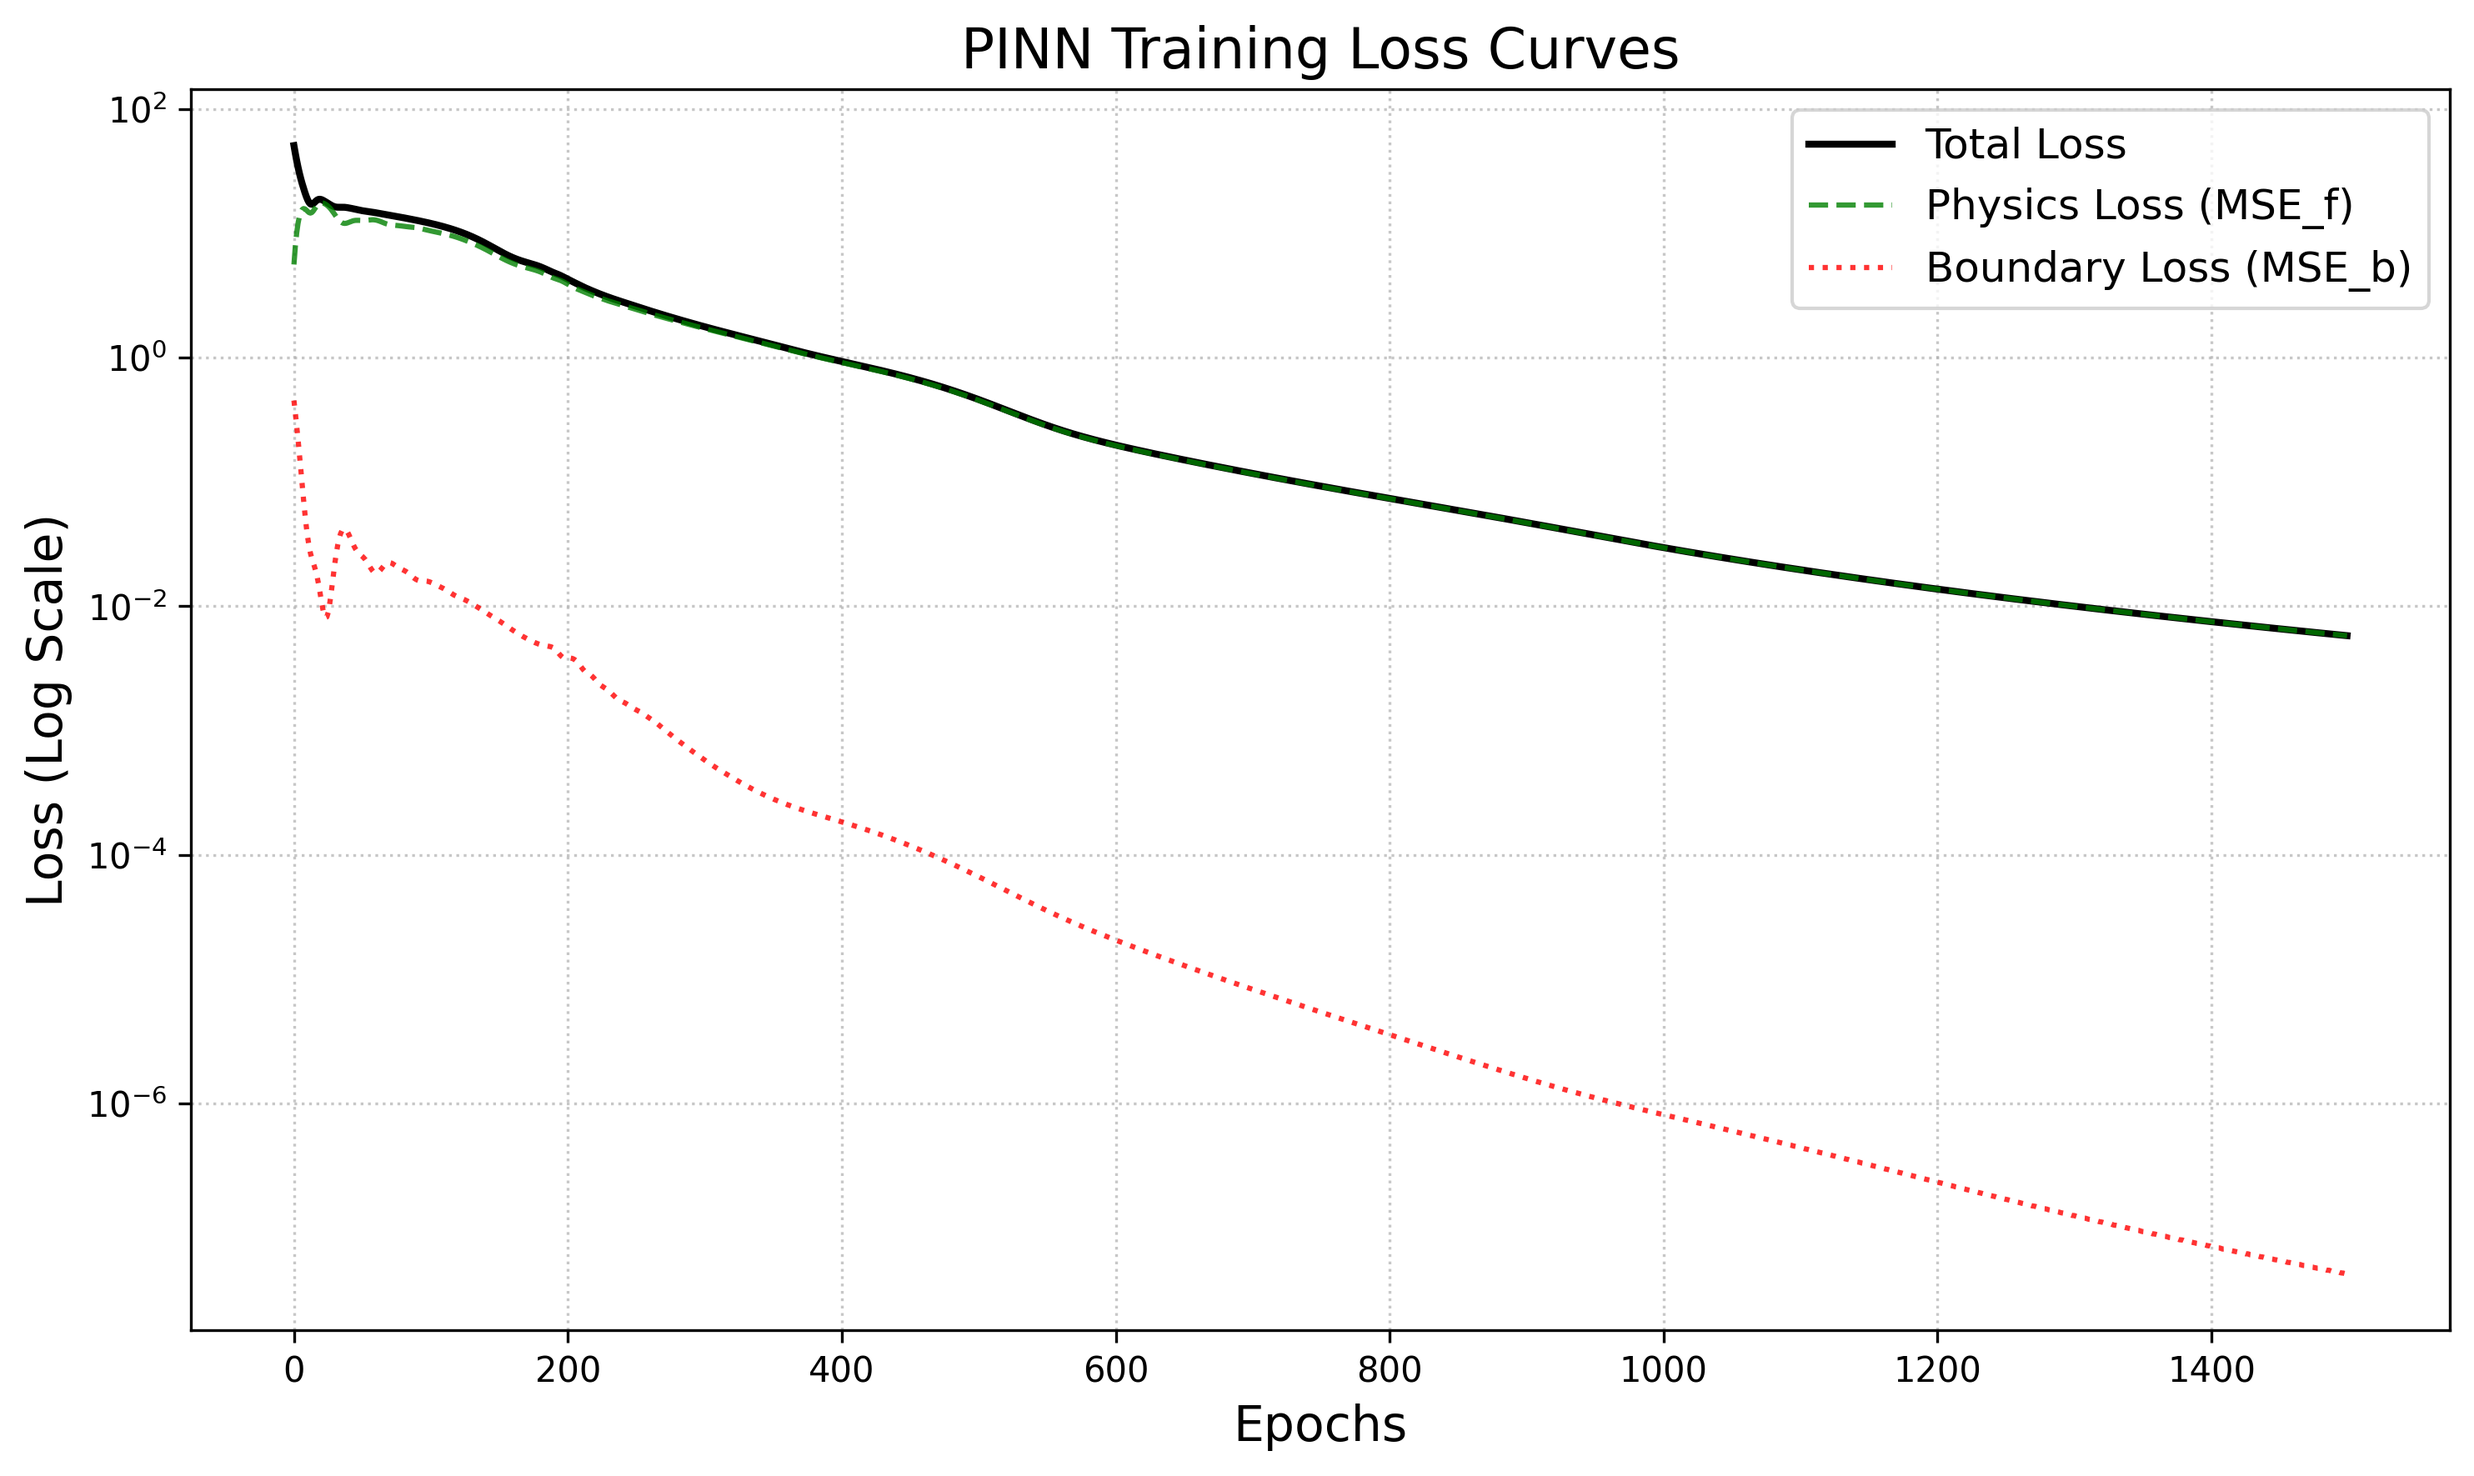
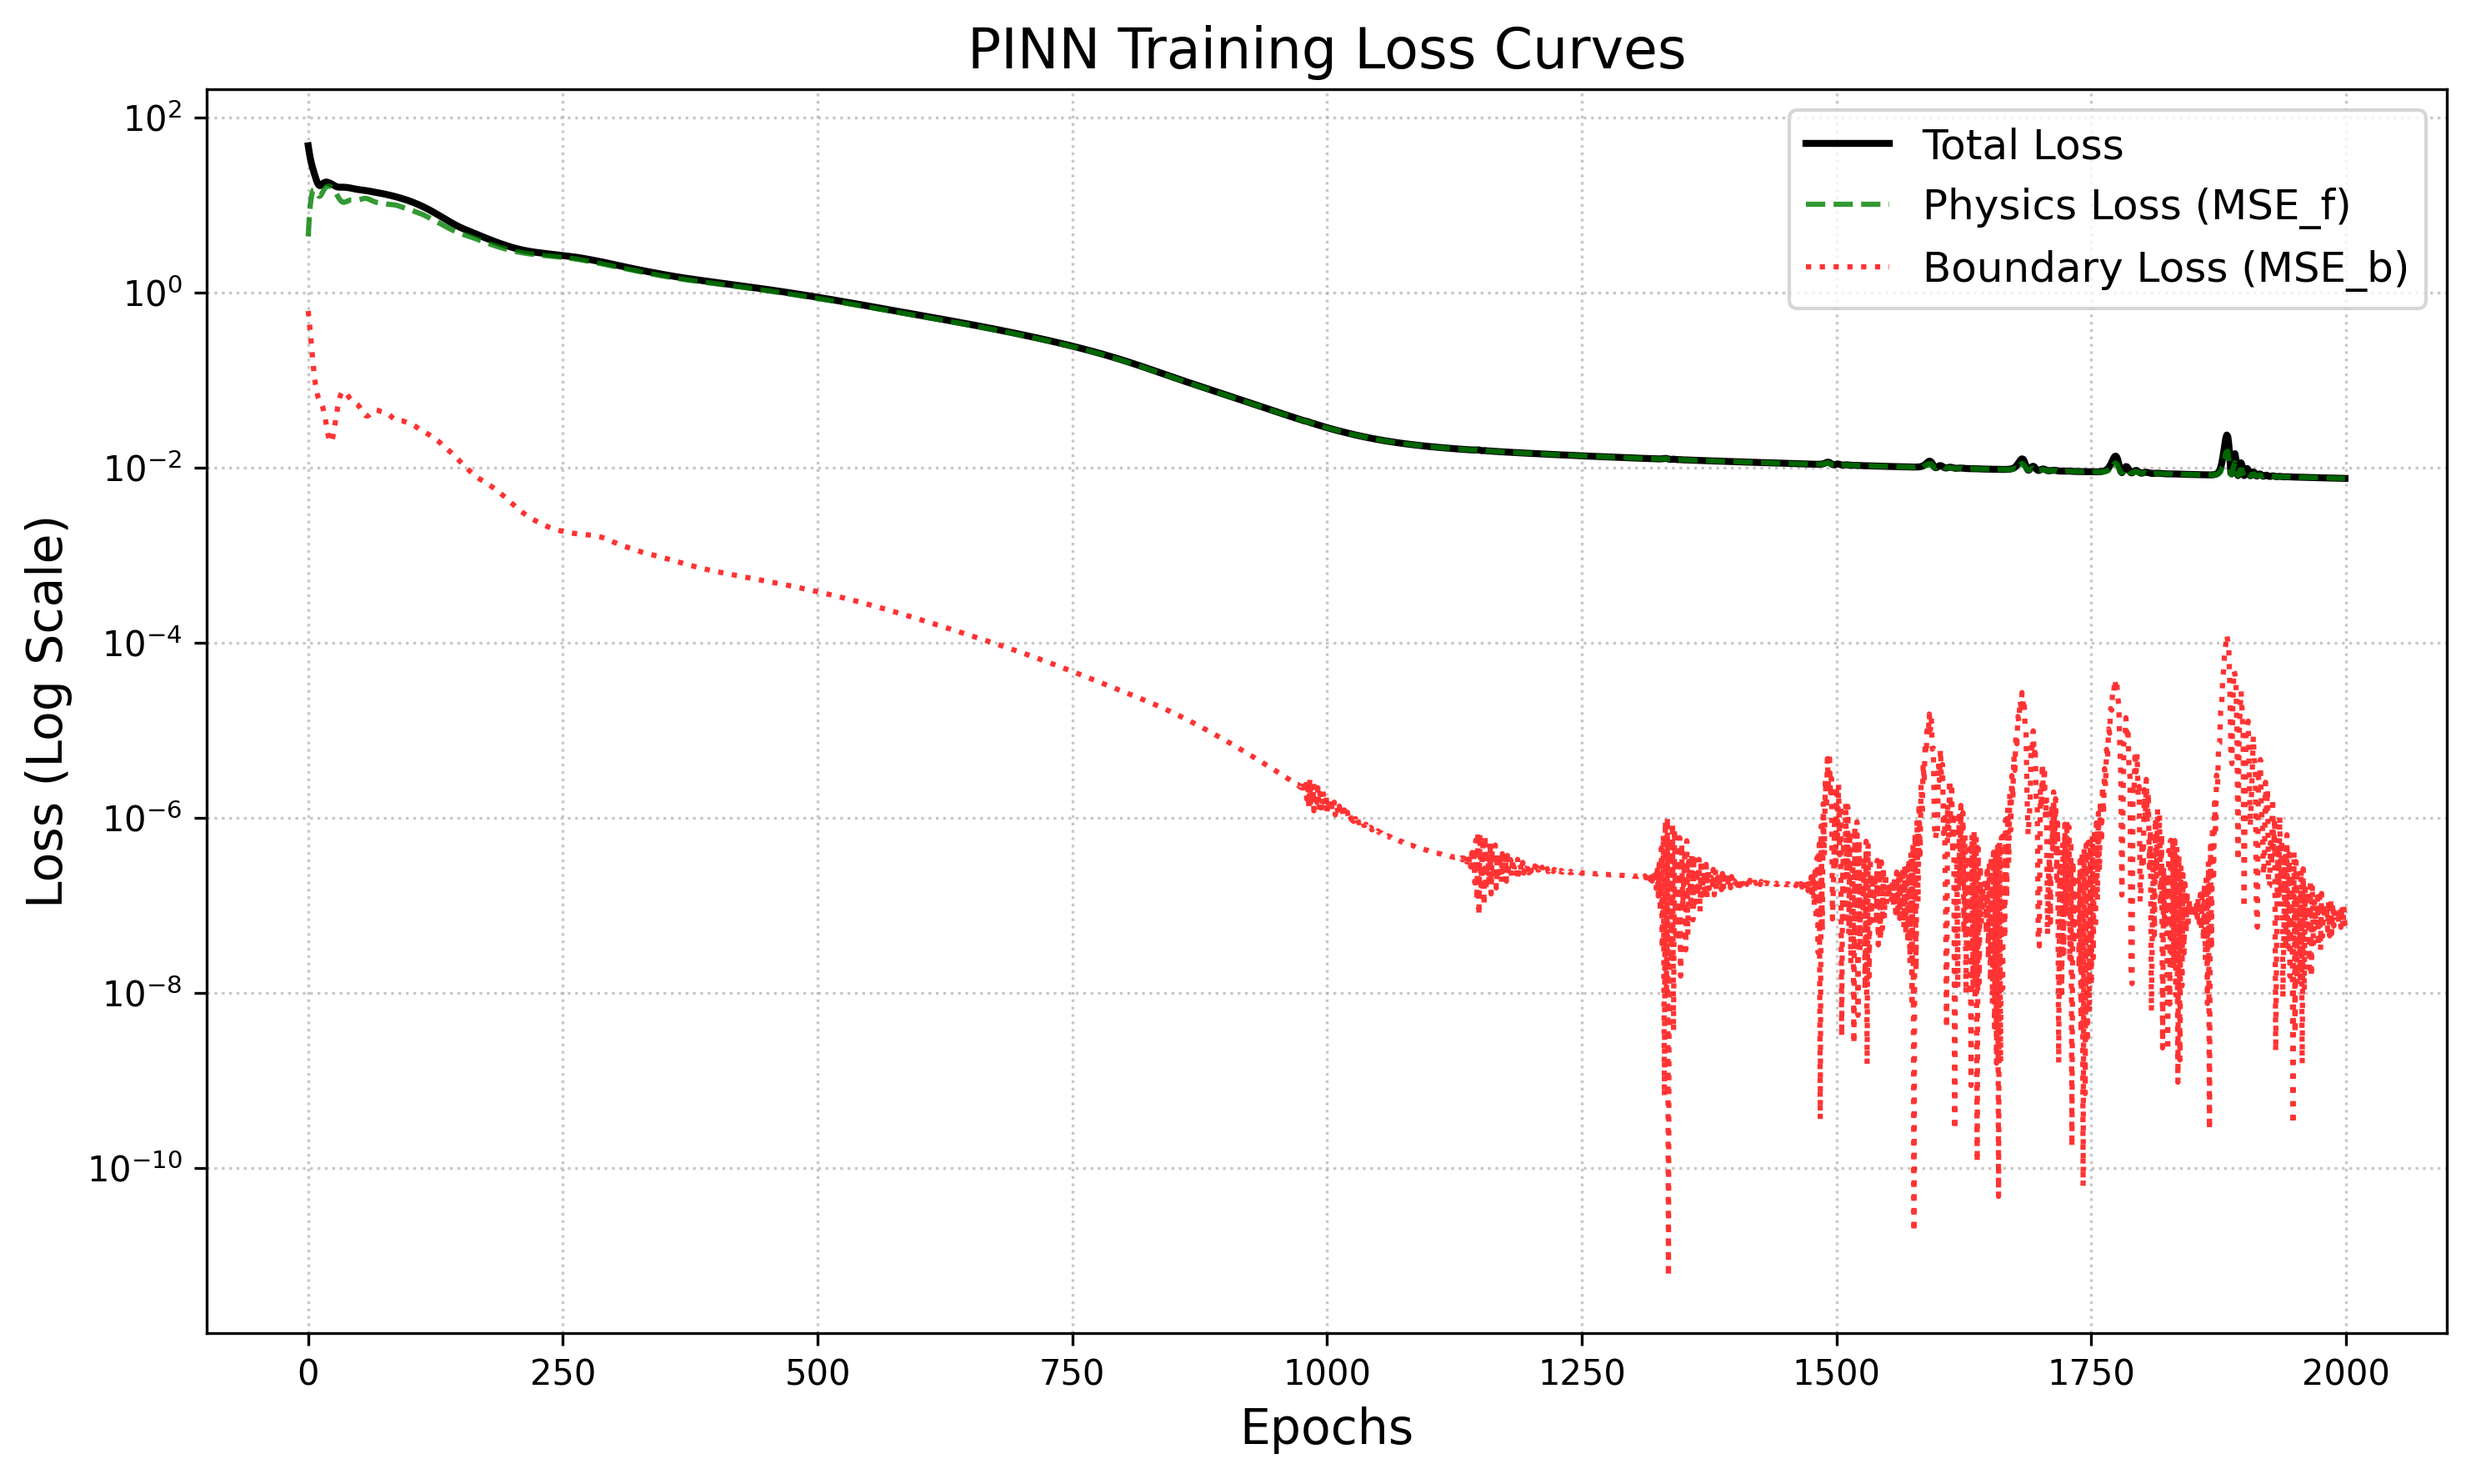
poisson tout propre

diff --git a/experiments/run_damped.py b/experiments/run_damped.py
@@ -18,12 +18,30 @@ from src.utils.training import train_pinn, train_bpinn
 # the 1D Damped Harmonic Oscillator problem without active forcing.
 # m u'' + c u' + k u = 0
 # =========================================================================
+def warm_start_bnn(pinn, bnn):
+    """Transfer weights from trained PINN to BNN, handling the 'net.' prefix mismatch."""
+    # Get the state dict from the PINN
+    pinn_state_dict = pinn.state_dict()
+    
+    # Create a new state dict with 'net.' removed from the keys
+    new_state_dict = {}
+    for key, value in pinn_state_dict.items():
+        # If the key starts with 'net.', strip it
+        new_key = key.replace('net.', '') 
+        new_state_dict[new_key] = value
+        
+    # Load the cleaned state dict into the BNN
+    bnn.load_state_dict(new_state_dict)
+    print("BNN successfully initialized with 'net.'-stripped PINN weights.")
+
 
 def run_damped_oscillator():
     # 1. Setup PDE and Physics Parameters
     m = 1.0
     k = 10.0
     c = 0.5
+    sigma_u = 0.00001
+    sigma_f = 0.001
     
     # 2. Setup Data
     # Time domain from t=0 to t=10
@@ -37,7 +55,7 @@ def run_damped_oscillator():
     u_f_target = torch.zeros_like(t_f)
     
     # Initialize PDE problem
-    pde_problem = DampedHarmonicOscillator1D(x_f=t_f, y_f=u_f_target, sigma_f=0.1, m=m, c=c, k=k, f=None)
+    pde_problem = DampedHarmonicOscillator1D(x_f=t_f, y_f=u_f_target, sigma_f=sigma_f, m=m, c=c, k=k, f=None)
     
     # =========================================================================
     # Standard PINN Baseline
@@ -53,9 +71,9 @@ def run_damped_oscillator():
         y_b=u_b,
         x_f=t_f,
         y_f=u_f_target,
-        epochs=1500,
+        epochs=2000,
         lr=2e-3,
-        boundary_weight=100.0
+        boundary_weight=70.0
     )
 
     # =========================================================================
@@ -63,8 +81,9 @@ def run_damped_oscillator():
     # =========================================================================
     print("\n========================================")
     print("Training B-PINN (HMC)...")
-    bnn_model = BNN(input_dim=1, output_dim=1, hidden_dims=[30, 30])
-    
+    bnn_model = BNN(input_dim=1, output_dim=1, hidden_dims=[30, 30, 30])
+    #warm_start_bnn(pinn_model, bnn_model)
+
     samples = train_bpinn(
         model=bnn_model,
         pde_problem=pde_problem,
@@ -72,13 +91,15 @@ def run_damped_oscillator():
         y_b=u_b,
         x_f=t_f,
         y_f=u_f_target,
-        sigma_u=0.01,  # Tight variance enforces initial condition heavily to prevent collapse
-        sigma_f=0.1,  
-        M=50,
-        N=150,
-        L=15,
+        sigma_u=sigma_u,  # Tight variance enforces initial condition heavily to prevent collapse
+        sigma_f=sigma_f,  
+        M=500,
+        N=200,
+        L=50,
         delta_t=0.001
     )
+
+
     
     # =========================================================================
     # Generate Plots

diff --git a/experiments/run_poisson.py b/experiments/run_poisson.py
@@ -23,14 +23,14 @@ def run_poisson_experiment():
 
     # 1. Setup Data and Physics
     # Boundary data (x_b, y_b)
-    x_b = torch.tensor([[-1.0], [1.0]], dtype=torch.float32)
+    x_b = torch.tensor([[-0.7], [0.7]], dtype=torch.float32)
     y_b = torch.sin(6 * x_b)**3
 
    
     # Collocation points (x_f), forcing term measurements (y_f)
-    x_f = torch.linspace(-0.7, 0.7, 16).view(-1, 1).requires_grad_(True)
-    y_f = lambd * (108 * torch.sin(6 * x_f) * torch.cos(6 * x_f)**2 - 108 * torch.sin(6 * x_f)**3).detach()
-    
+    Nbr_colloc= 20
+    x_f = torch.linspace(-0.7, 0.7, Nbr_colloc).view(-1, 1).requires_grad_(True)
+    y_f = lambd * (216 * torch.sin(6 * x_f) * torch.cos(6 * x_f)**2 - 108 * torch.sin(6 * x_f)**3).detach()
     # Add noisy data mirroring the standard testing setup
     noise_std = 0.01
     y_b = y_b + torch.randn_like(y_b) * noise_std
@@ -40,14 +40,13 @@ def run_poisson_experiment():
     sigma_u = noise_std
     sigma_f = noise_std
     
-    pde_problem = Poisson1D(x_f, y_f, sigma_f)
-    
+    pde_problem = Poisson1D(x_f, y_f, sigma_f, lambd=lambd)    
     # =========================================================================
     # Standard PINN Baseline
     # =========================================================================
     print("========================================")
     print("Training Standard PINN baseline...")
-    pinn_model = PINN(input_dim=1, output_dim=1, hidden_dims=[20, 20])
+    pinn_model = PINN(input_dim=1, output_dim=1, hidden_dims=[50, 50])
     
     pinn_model, history = train_pinn(
         model=pinn_model,
@@ -56,7 +55,7 @@ def run_poisson_experiment():
         y_b=y_b,
         x_f=x_f,
         y_f=y_f,
-        epochs=1000,
+        epochs=2500,
         lr=1e-3
     )
 
@@ -65,8 +64,7 @@ def run_poisson_experiment():
     # =========================================================================
     print("\n========================================")
     print("Training B-PINN (HMC)...")
-    bnn_model = BNN(input_dim=1, output_dim=1, hidden_dims=[20, 20])
-    
+    bnn_model = BNN(input_dim=1, output_dim=1, hidden_dims=[50, 50])
     samples = train_bpinn(
         model=bnn_model,
         pde_problem=pde_problem,
@@ -76,10 +74,10 @@ def run_poisson_experiment():
         y_f=y_f,
         sigma_u=sigma_u,
         sigma_f=sigma_f,
-        M=1000,
-        N=17000,
-        L=50,
-        delta_t=0.1
+        M=200,       
+        N=200,      
+        L=20,       
+        delta_t=0.01
     )
     
     # =========================================================================

diff --git a/src/physics/PDEs.py b/src/physics/PDEs.py
@@ -16,10 +16,12 @@ class PDEProblem:
 
 class Poisson1D(PDEProblem):
     """
-    1D Poisson equation: u_xx = f(x)
+    1D Poisson equation: lambda * u_xx = f(x)
     """
-    def __init__(self, x_f, y_f, sigma_f):
+    # Added lambd parameter with a default of 1.0 so it doesn't break your old tests
+    def __init__(self, x_f, y_f, sigma_f, lambd=1.0):
         super().__init__(x_f, y_f, sigma_f)
+        self.lambd = lambd
 
     def compute_residual(self, u_func, x, params=None):
         u = u_func(x)
@@ -27,8 +29,11 @@ class Poisson1D(PDEProblem):
         u_x = torch.autograd.grad(u, x, grad_outputs=torch.ones_like(u), create_graph=True)[0]
         # Second derivative
         u_xx = torch.autograd.grad(u_x, x, grad_outputs=torch.ones_like(u_x), create_graph=True)[0]
-        return u_xx - self.y_f # residual: u_xx - f = 0
+        
+        # Apply the diffusion coefficient to the residual
+        return (self.lambd * u_xx) - self.y_f
 
+        
 class Burgers1D(PDEProblem):
     """
     1D Burgers equation: u_t + u * u_x = nu * u_xx
